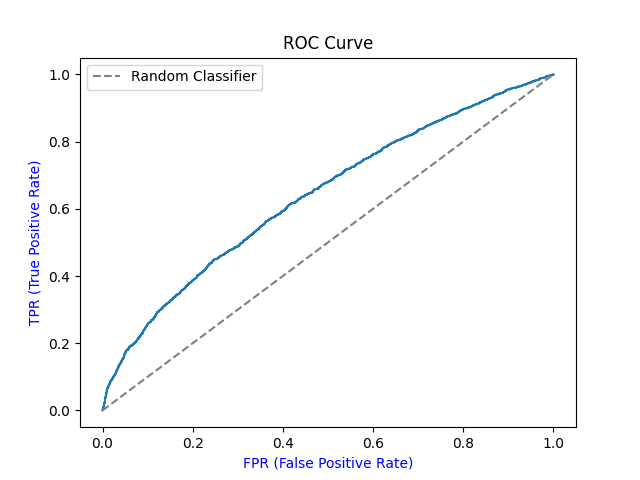
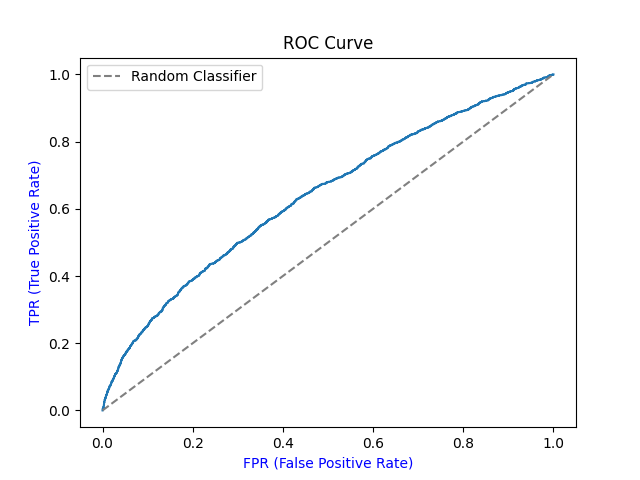
Chnage of roc curve image size

diff --git a/src/explainability.py b/src/explainability.py
@@ -14,7 +14,7 @@ def shap_explainer(model, X_test):
     shap_values = explainer.shap_values(X_test)
 
     #visualization
-    shap.summary_plot(shap_values, X_test, plot_type="dot", show = False, plot_size = (10,8))
+    shap.summary_plot(shap_values, X_test, plot_type="dot", show = False, plot_size = (8,6))
     plt.savefig('shap_values.png', bbox_inches = 'tight', pad_inches = 0.3)
     plt.close()
 